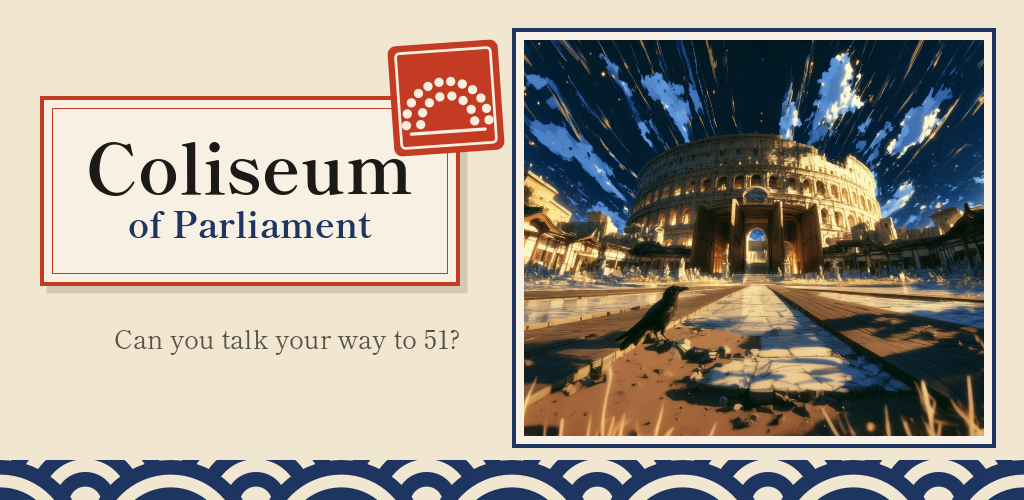
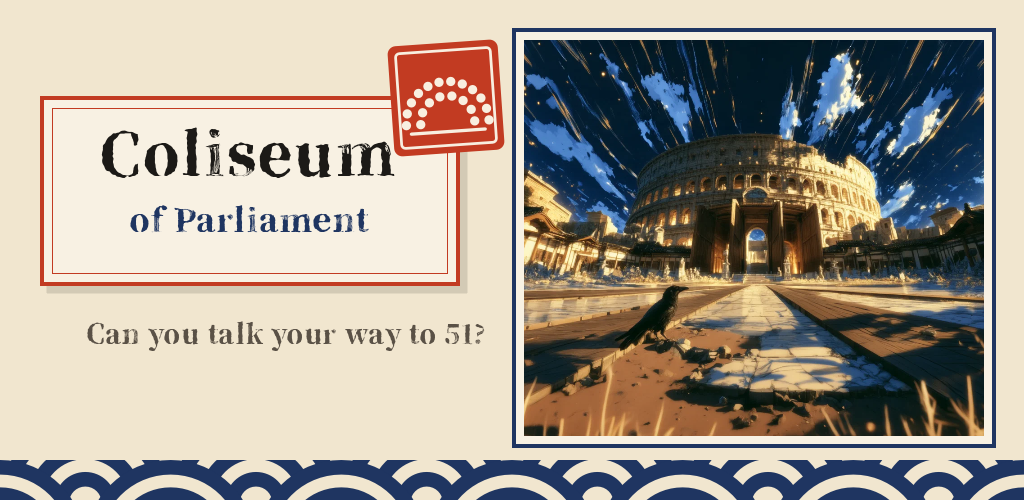
Start screen and feature graphic in Antaka Brush Display
Cameron's choice after seeing the start screen in every custom font. Noto Sans JP stays behind it so 蓮物語 (and the middle dot) are drawn by the Japanese font. Tagline 30 px, feature graphic title 58 px, and the title plate takes the larger of the measured and the real text height so text never touches its inner line. Shots and report retaken.

Claude-Session: https://claude.ai/code/session_01DfMHaaSwffhC48YRSkV9vX

Changed region(s): [[0.0625, 0.24, 0.4062, 0.48], [0.0625, 0.63, 0.4688, 0.72]]

diff --git a/design/ARCHITECTURE.md b/design/ARCHITECTURE.md
@@ -146,7 +146,7 @@ Layout that makes a screen fit: the Office front page and the Level Intro sit in
 | `tools/brand/export_brand.gd` | Run with a display (`xvfb-run -a .tools/godot --path . -s tools/brand/export_brand.gd`): rasterizes the SVGs with Godot's own loader into `assets/brand/` and composes the feature graphic with real text. Reads Text rows straight from `data/strings.json` (autoloads do not run in a tool script). |
 | `tests/test_brand_assets.gd` | Sizes, no alpha on the store icons, the adaptive foreground inside the 66% safe circle, the monochrome layer white on transparent. |
 | `scripts/rules/IntroLayout.gd` | Pure: every rectangle of the start screen from the screen size, the safe-area insets and the plate's height; and the "cover" crop for the framed print. |
-| `scripts/ui/BrandTheme.gd` | The brand's colours, fonts (Shippori Mincho B1 with Noto Sans JP behind it) and the three button styles. Only the start screen reads it; it does not touch `UiStyle`. |
+| `scripts/ui/BrandTheme.gd` | The brand's colours, its font (Antaka Brush Display, Cameron's choice, with Noto Sans JP behind it for the Japanese and any glyph Antaka lacks) and the three button styles. Only the start screen reads it; it does not touch `UiStyle`. |
 | `scenes/menus/IntroScreen.tscn`, `scripts/ui/IntroScreen.gd` | The screen: nodes in the scene, positions from `IntroLayout`, the plate's height measured from the fonts (a wrapped `Label` knows its own height only a frame after it is sized). |
 | `tests/interaction/intro_brand_test.gd` | Words are Text rows, touch targets at least 122 px, text 4.5 to 1 and shapes 3 to 1 measured from pixels, nothing overlapping or off screen at 2340, 1920 and Large text, with and without a save. |
 | `tools/brand/export_presets.example.cfg` | Android and iOS presets with every icon wired and the short name "Coliseum". `export_presets.cfg` itself is git-ignored on purpose; copy the example to the project root. |

diff --git a/design/CHANGELOG.md b/design/CHANGELOG.md
@@ -1327,4 +1327,5 @@ What is in, what is not. See `design/review/p9_ui_styles_2026-11-17/REPORT.md` f
 - **Brand B, "The Assembly Seal"** is the brand: the icon, the boot splash and the start screen look the same whichever UI style is owned (the style is saved with the run; there is none before Continue). Card fronts and backs are untouched.
 - **Assets:** `tools/brand/export_brand.gd` rebuilds every PNG in `assets/brand/` from the SVGs in `design/brand/source/` (the 1024 render matches the reference to within 22 of 255 on any pixel): the store icons, every iOS size Godot 4.5.1 reads, Android's legacy and adaptive layers (the seal inside the 66% safe circle, plus the monochrome layer), the splash seal, the start screen's wave band and the Google Play feature graphic. `tests/test_brand_assets.gd` checks them.
 - **Project:** the icon, the version (0.1.0, a placeholder number) and the boot splash (the seal on washi) are set. Android and iOS export presets are in `tools/brand/export_presets.example.cfg` (copy to `export_presets.cfg`, which the repo ignores), with a placeholder package name and the short name "Coliseum".
+- **Font:** the start screen and the feature graphic are set in **Antaka Brush Display** (Cameron's choice after seeing the start screen in every custom font), with Noto Sans JP behind it, so the 蓮物語 in the footer is drawn by the Japanese font.
 - **Start screen:** rebuilt as bands, a framed print of the `TITLE` painting, a paper title plate with the seal, three buttons and a footer, over waves. Only the print flexes (shorter screens and Large text shrink it). Behaviour is unchanged; words are Text rows (`intro.title_top`, `intro.title_bottom`, `intro.tagline`, `intro.footer_mark`, `intro.version`). `intro_brand_test` measures contrast from pixels.

diff --git a/design/review/p10_brand_b_2026-11-18/REPORT.md b/design/review/p10_brand_b_2026-11-18/REPORT.md
@@ -21,6 +21,7 @@ Branch `panel/p10-brand-b`, from `main`. Not merged. All wording is a draft for 
 | 4 | Short name under the phone icon | **Coliseum** |
 | 5 | Export presets | **Create now** (done as `tools/brand/export_presets.example.cfg`; see section 6) |
 | 6 | Noto Serif JP | **No**: Japanese is Noto Sans JP |
+| later | Font | **Antaka Brush Display** for the start screen and the feature graphic (instead of the spec's Shippori Mincho B1), with Noto Sans JP behind it for 蓮物語 |
 
 ## 2. Acceptance table ("Done means")
 
@@ -95,3 +96,7 @@ Beyond the spec's list I made `icon_114.png` (Godot's `notification_114x114`) an
 | `e0bc09e` | Brand assets, export script, project icon and boot splash, export presets example, new Text rows |
 | `c5b55ec` | The start screen, `intro_brand_test`, docs, review shots and this report |
 | (next) | This report's final lines |
+
+## Update: Antaka Brush Display (Cameron, 2026-11-18)
+
+After seeing the start screen in every custom font, Cameron chose **Antaka Brush Display** for the start screen and the feature graphic, with Noto Sans JP behind it so 蓮物語 is drawn by the Japanese font (Antaka is Latin only: it also lacks "·", which falls back the same way). The shots in this folder and `assets/brand/feature_graphic_1024x500.png` were retaken. Antaka is wider than Shippori, so the tagline is 30 px (one line at normal text, two at Large), the feature graphic's title is 58 px, and the plate now takes its height from the text's real height as well as the measured one (the plate no longer lets text touch its inner line). Contrast readings in section 7 are from the Shippori build; `intro_brand_test` re-measures on every run and passes.
